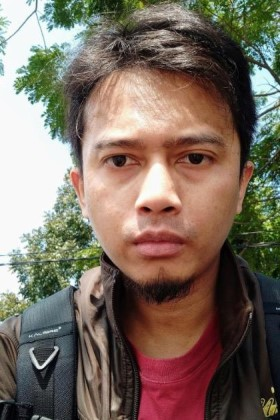
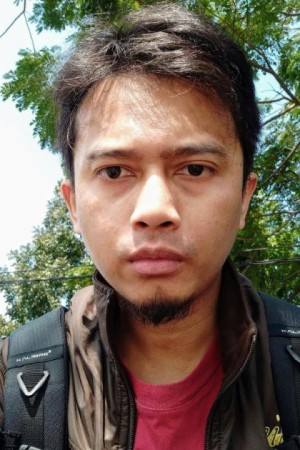
hero css for big screens

diff --git a/css/styles.css b/css/styles.css
@@ -379,3 +379,35 @@ p {
 .hero-btn {
   margin-top: 1.25rem;
 }
+
+.hero-photo {
+  position: relative;
+  max-width: 25rem;
+  max-height: 30rem;
+  border-radius: var(--radius);
+  -o-object-fit: cover;
+  object-fit: cover;
+}
+
+@media screen and (min-width: 768px) {
+  .hero-img {
+    display: block;
+    position: relative;
+  }
+
+  .hero-center {
+    grid-template-columns: 1fr 1fr;
+  }
+
+  .hero-img::before,
+  .about-img::before {
+    position: absolute;
+    top: 2rem;
+    right: -2rem;
+    width: 100%;
+    height: 100%;
+    border: 0.25rem solid var(--clr-primary-5);
+    border-radius: var(--radius);
+    content: '';
+  }
+}

diff --git a/index.html b/index.html
@@ -91,7 +91,7 @@
         <article class="hero-info">
           <div class="underline"></div>
           <h1>I'm Evan</h1>
-          <h4>Laravel and JavaScript Developer</h4>
+          <h4>JavaScript and Laravel Developer</h4>
           <a href="contact.html" class="btn hero-btn">Hire Me</a>
 
           <ul class="social-icons">
